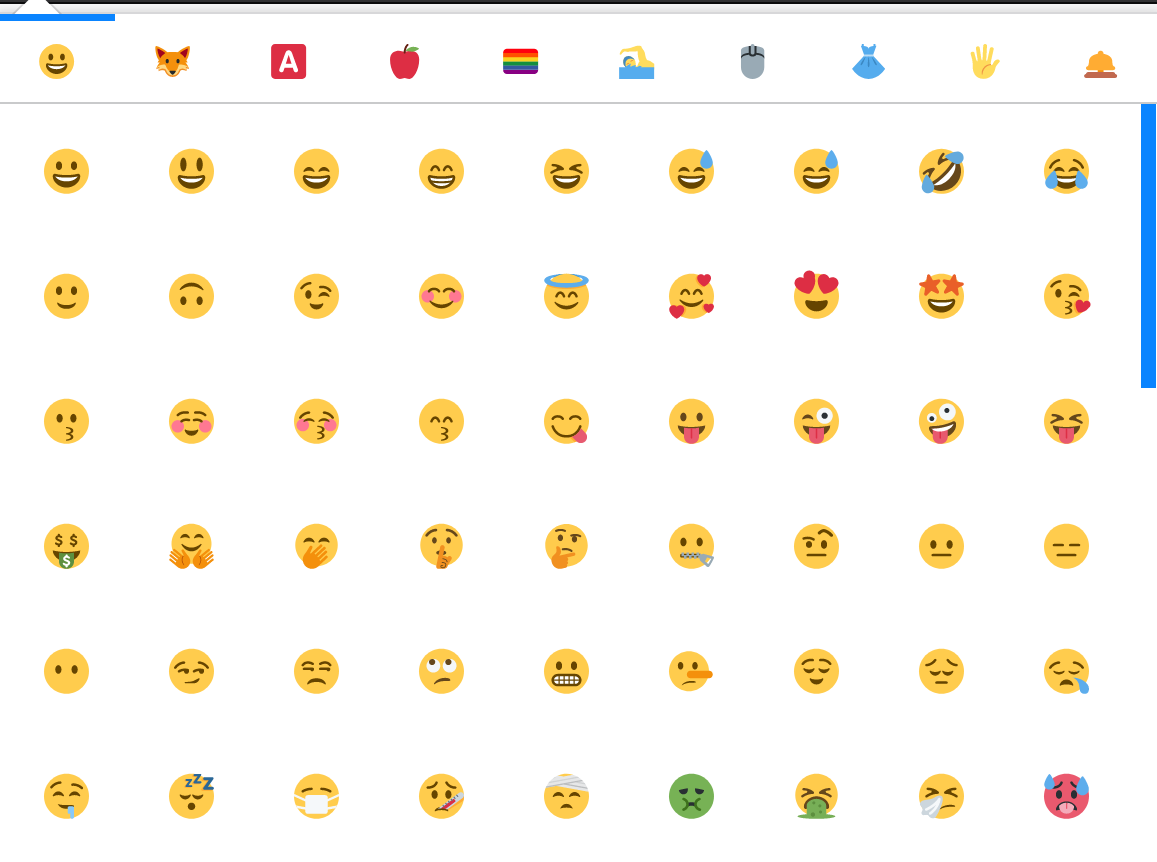
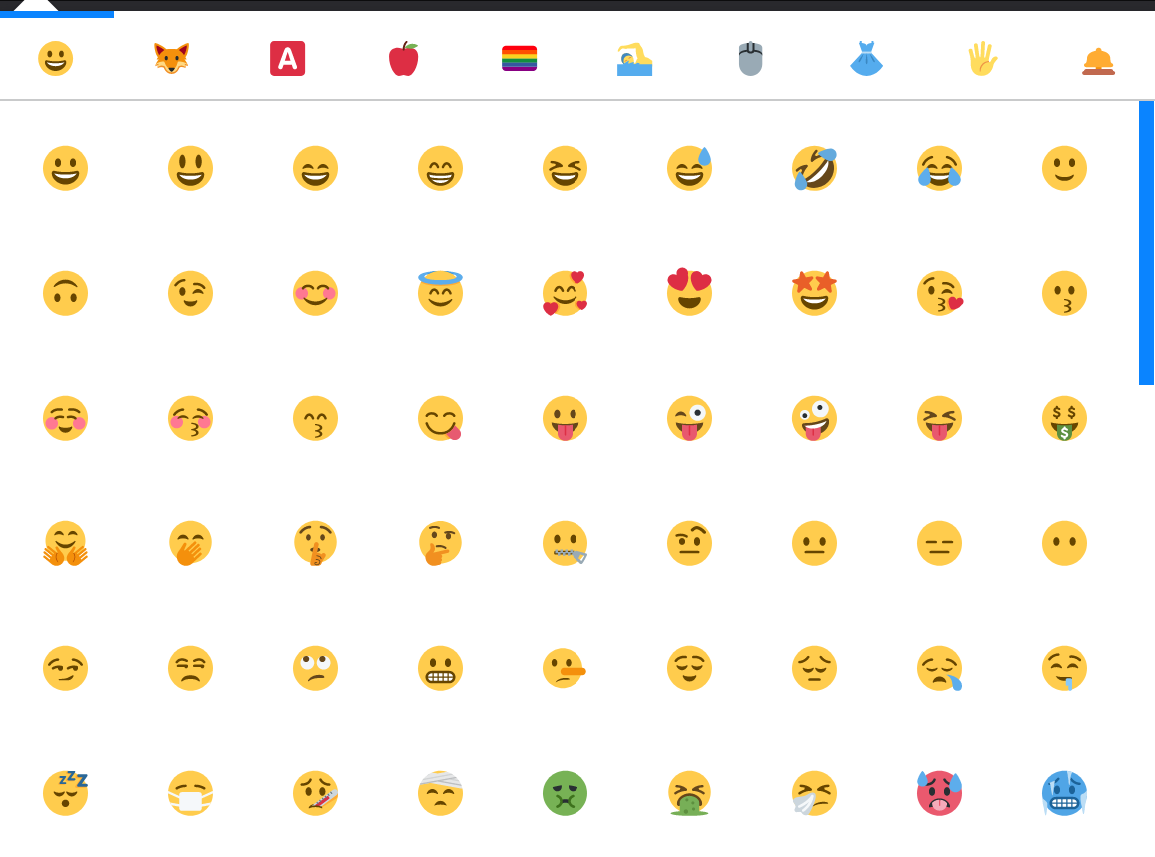
2.0.1
- Removed a duplicate

diff --git a/js/script.js b/js/script.js
@@ -1,7 +1,7 @@
 var titles = ["😀", "🦊", "🅰", "🍎", "🏳🌈", "🏊", "🖱", "👗", "🖐", "🛎"];
 var emojis = [0, 1, 2];
 /*smileys*/
-emojis[0] = ["😀", "😃", "😄", "😁", "😆", "😅", "😅", "🤣", "😂", "🙂", "🙃", "😉", "😊", "😇", "🥰", "😍", "🤩", "😘", "😗", "☺", "😚", "😙", "😋", "😛", "😜", "🤪", "😝", "🤑", "🤗", "🤭", "🤫", "🤔", "🤐", "🤨", "😐", "😑", "😶", "😏", "😒", "🙄", "😬", "🤥", "😌", "😔", "😪", "🤤", "😴", "😷", "🤒", "🤕", "🤢", "🤮", "🤧", "🥵", "🥶", "🥴", "😵", "🤯", "🤠", "🥳", "😎", "🤓", "🧐", "😕", "😟", "🙁", "☹", "😮", "😯", "😲", "😳", "🥺", "😦", "😨", "😰", "😥", "😢", "😭", "😱", "😖", "😣", "😞", "😓", "😩", "😫", "😤", "😡", "😠", "🤬", "😈", "👿", "🤡", "👽", "👾", "🤖", "👹", "👻", "👶", "🧒", "👧", "🧑", "👱", "👨", "🧔", "👨🦰", "👨🦱", "👨🦳", "👨🦲", "👩", "👩🦰", "👩🦱", "👩🦳", "👩🦲", "👱♀", "👱♂", "🧓", "👴", "👵", "👼", "🎅", "🤶", "🤴", "👸", "👳", "👳♂", "👳♀", "👲", "🧕", "🤵", "👰", "🤰", "🤱"];
+emojis[0] = ["😀", "😃", "😄", "😁", "😆", "😅", "🤣", "😂", "🙂", "🙃", "😉", "😊", "😇", "🥰", "😍", "🤩", "😘", "😗", "☺", "😚", "😙", "😋", "😛", "😜", "🤪", "😝", "🤑", "🤗", "🤭", "🤫", "🤔", "🤐", "🤨", "😐", "😑", "😶", "😏", "😒", "🙄", "😬", "🤥", "😌", "😔", "😪", "🤤", "😴", "😷", "🤒", "🤕", "🤢", "🤮", "🤧", "🥵", "🥶", "🥴", "😵", "🤯", "🤠", "🥳", "😎", "🤓", "🧐", "😕", "😟", "🙁", "☹", "😮", "😯", "😲", "😳", "🥺", "😦", "😨", "😰", "😥", "😢", "😭", "😱", "😖", "😣", "😞", "😓", "😩", "😫", "😤", "😡", "😠", "🤬", "😈", "👿", "🤡", "👽", "👾", "🤖", "👹", "👻", "👶", "🧒", "👧", "🧑", "👱", "👨", "🧔", "👨🦰", "👨🦱", "👨🦳", "👨🦲", "👩", "👩🦰", "👩🦱", "👩🦳", "👩🦲", "👱♀", "👱♂", "🧓", "👴", "👵", "👼", "🎅", "🤶", "🤴", "👸", "👳", "👳♂", "👳♀", "👲", "🧕", "🤵", "👰", "🤰", "🤱"];
 /*animals*/
 emojis[1] = ["😺", "😸", "😹", "😻", "😼", "😽", "🙀", "😿", "😾", "🙈", "🙉", "🙊", "🐵", "🐒", "🦍", "🐶", "🐕", "🐩", "🐺", "🦊", "🦝", "🐱", "🐈", "🦁", "🐯", "🐅", "🐆", "🐴", "🐎", "🦄", "🦓", "🦌", "🐮", "🐂", "🐃", "🐄", "🐷", "🐖", "🐗", "🐽", "🐏", "🐑", "🐐", "🐪", "🐫", "🦙", "🦒", "🐘", "🦏", "🦛", "🐭", "🐁", "🐀", "🐹", "🐰", "🐇", "🐿", "🦔", "🦇", "🐻", "🐨", "🐼", "🦘", "🦡", "🦃", "🐔", "🐓", "🐣", "🐤", "🐥", "🐦", "🐧", "🕊", "🦅", "🦆", "🦢", "🦉", "🦚", "🦜", "🐸", "🐊", "🐢", "🦎", "🐍", "🐲", "🐉", "🦕", "🦖", "🐳", "🐋", "🐬", "🐟", "🐠", "🐡", "🦈", "🐙", "🐚", "🐌", "🦋", "🐛", "🐜", "🐝", "🐞", "🦗", "🕷", "🦂", "🦟", "🦀", "🦞", "🦐", "🦑"];
 /*symbols*/

diff --git a/README.md b/README.md
@@ -7,11 +7,11 @@ Official repo of https://addons.mozilla.org/it/firefox/addon/emoji-sav/.
 
 ## Description
 
-This extension permits you to copy an emoji in the clipboard. There are many emojis, exactly 905!
+This extension permits you to copy an emoji in the clipboard. There are many emojis, exactly 904!
 
 Emojis are divided in some sections, to help you to find the correct emoji quickly (in order):
 
-- Smileys (132 emojis)
+- Smileys (131 emojis)
 - Animals (111 emojis)
 - Symbols (162 emojis)
 - Foods and drinks (105 emojis)
